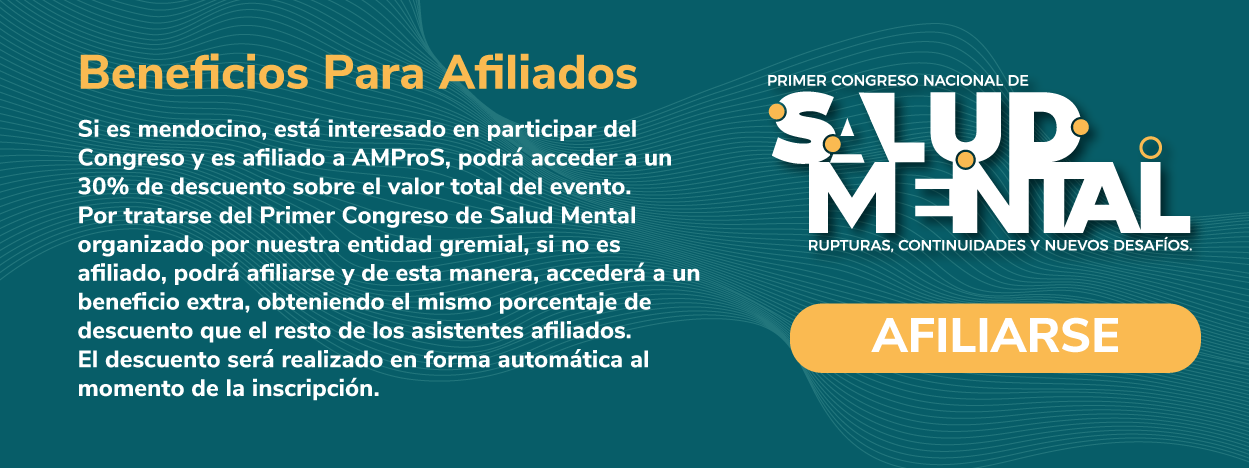
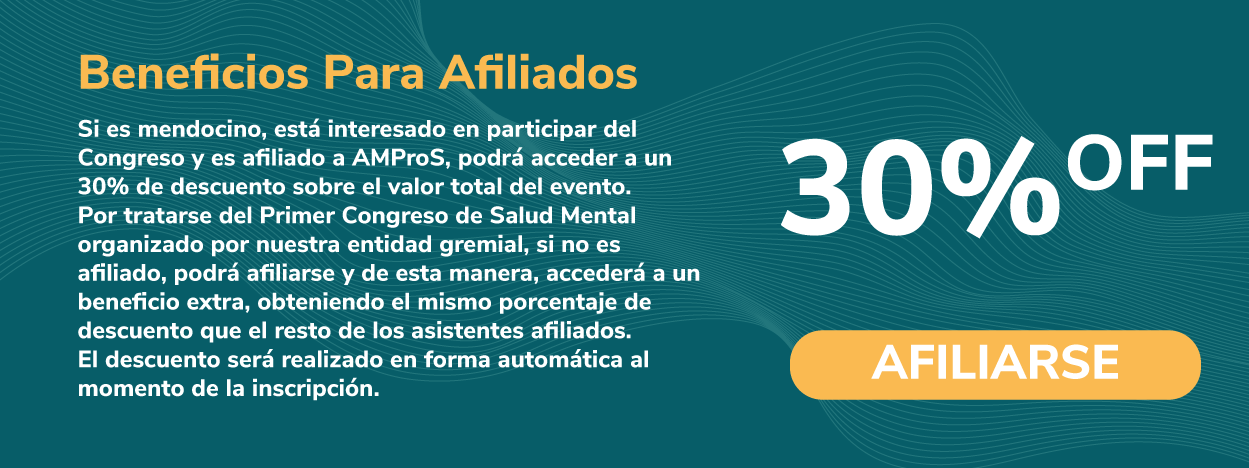
cambio la placa de beneficios

Changed region(s): [[0.5933, 0.1496, 0.968, 0.5385], [0.6245, 0.6282, 0.968, 0.8675]]

diff --git a/src/components/Header/Header.css b/src/components/Header/Header.css
@@ -282,7 +282,7 @@
     }
 
     #header .content .card .afiliacion {
-        bottom: 34%;
+        bottom: 16%;
     }
     #dos img {
         position: relative;
@@ -307,6 +307,12 @@
         height: 200px;
 
         margin-bottom: 0%;
+    }
+}
+@media (max-width: 1200px) {
+    #header .content .card .afiliacion {
+        bottom: 12%;
+        height: 35px;
     }
 }
 
@@ -380,7 +386,7 @@
         margin-right: 5px;
     }
     #header .content .card .afiliacion {
-        bottom: 7%;
+        bottom: 16%;
         left: 0%;
     }
     #header .content .card a {
